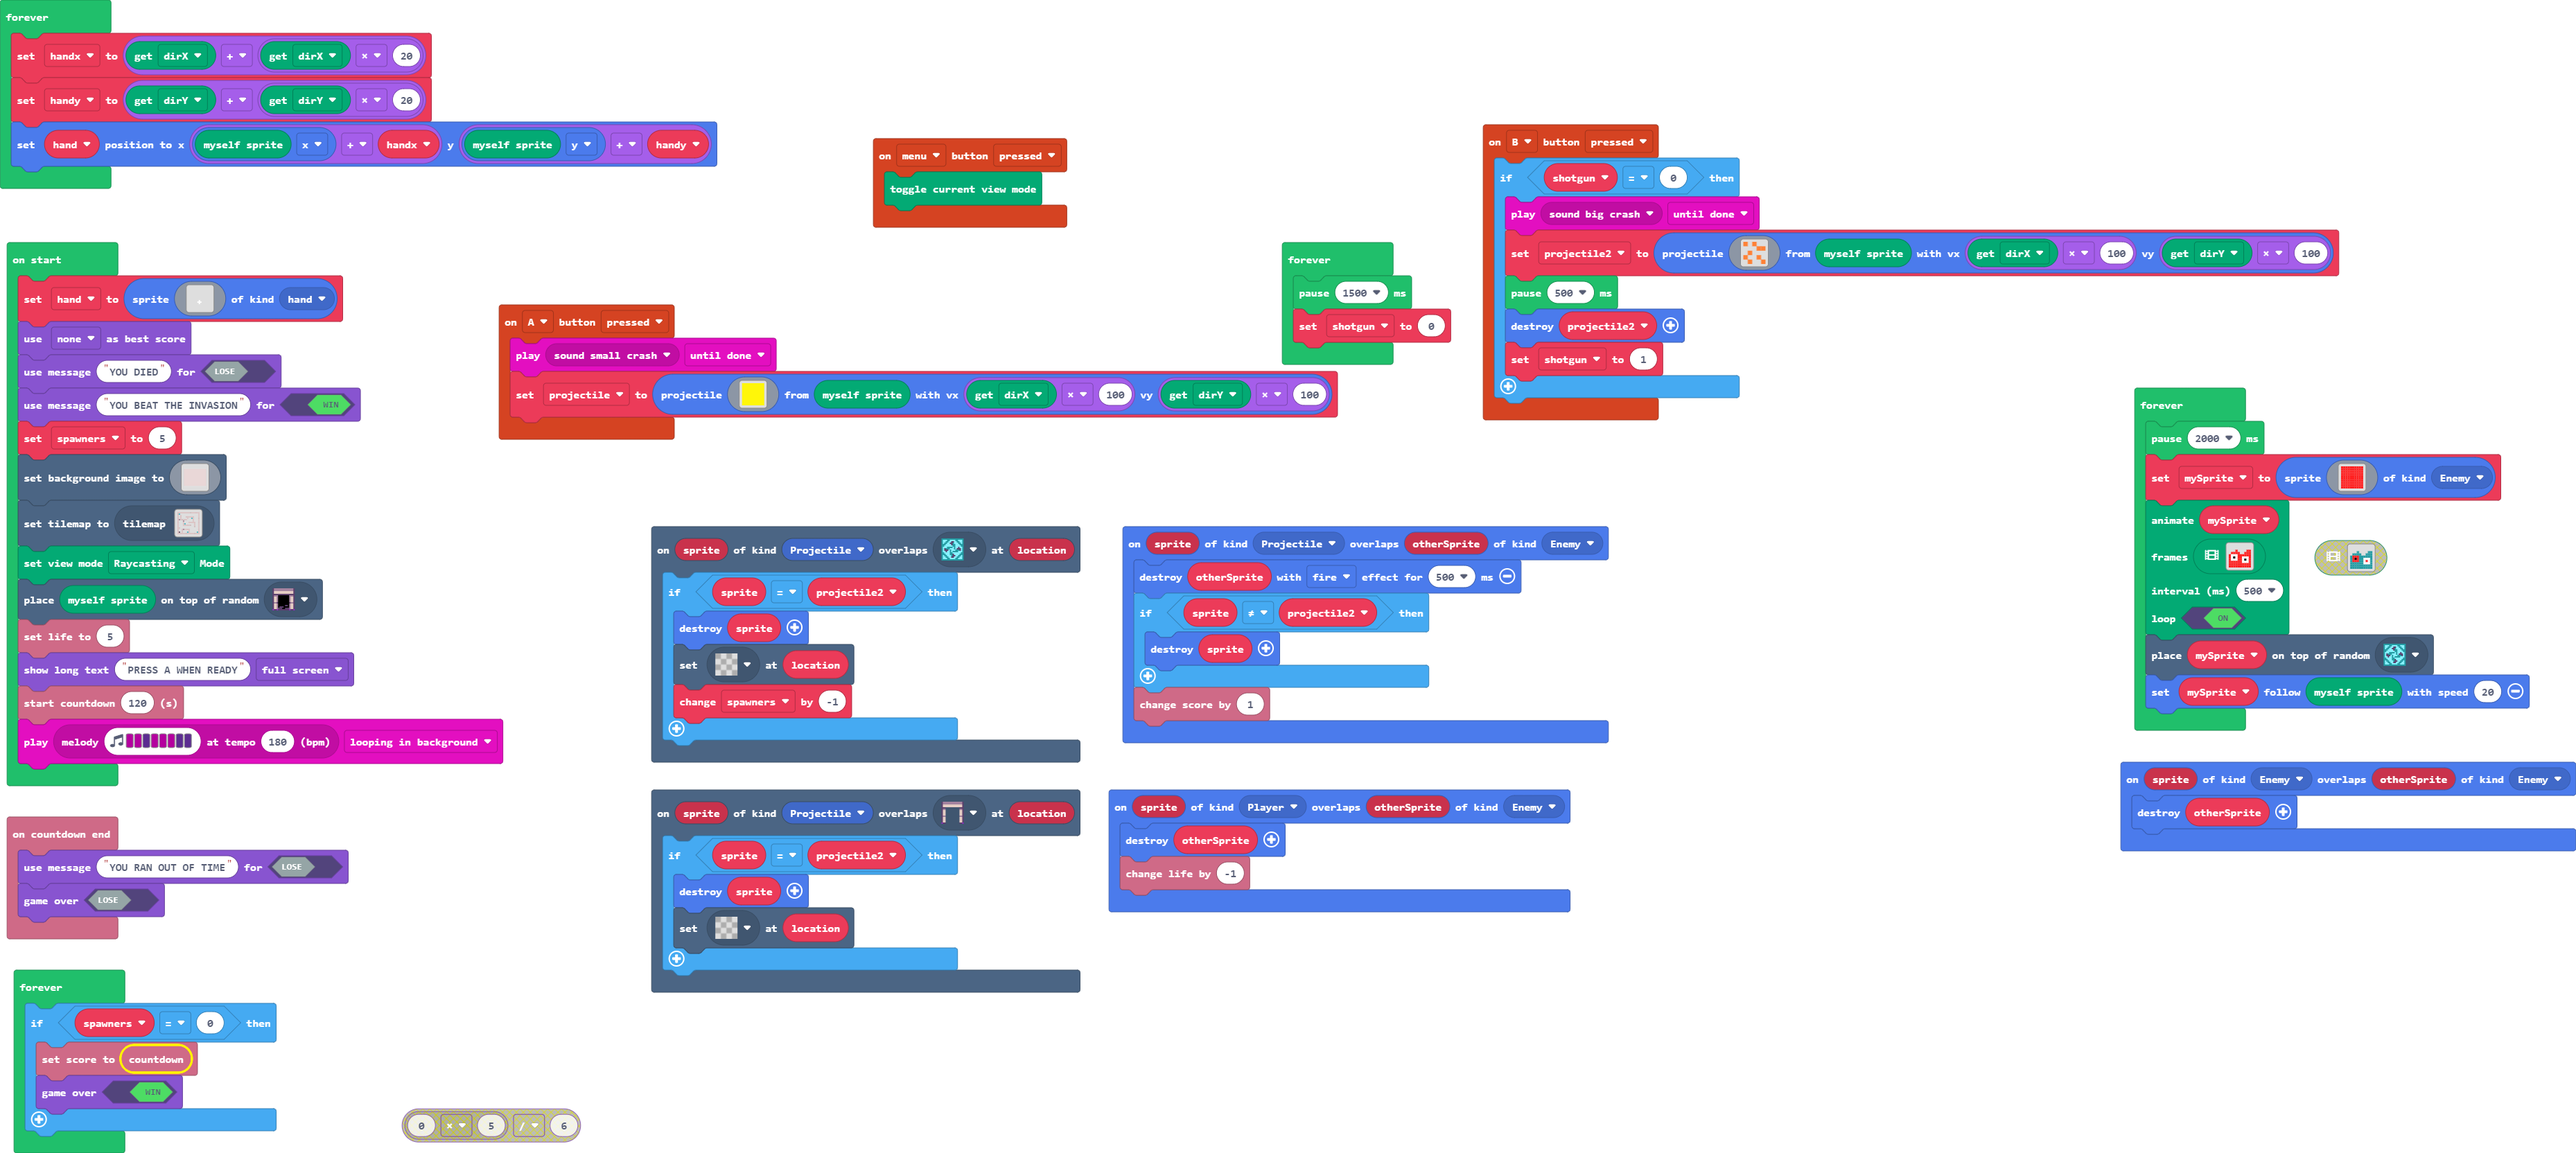
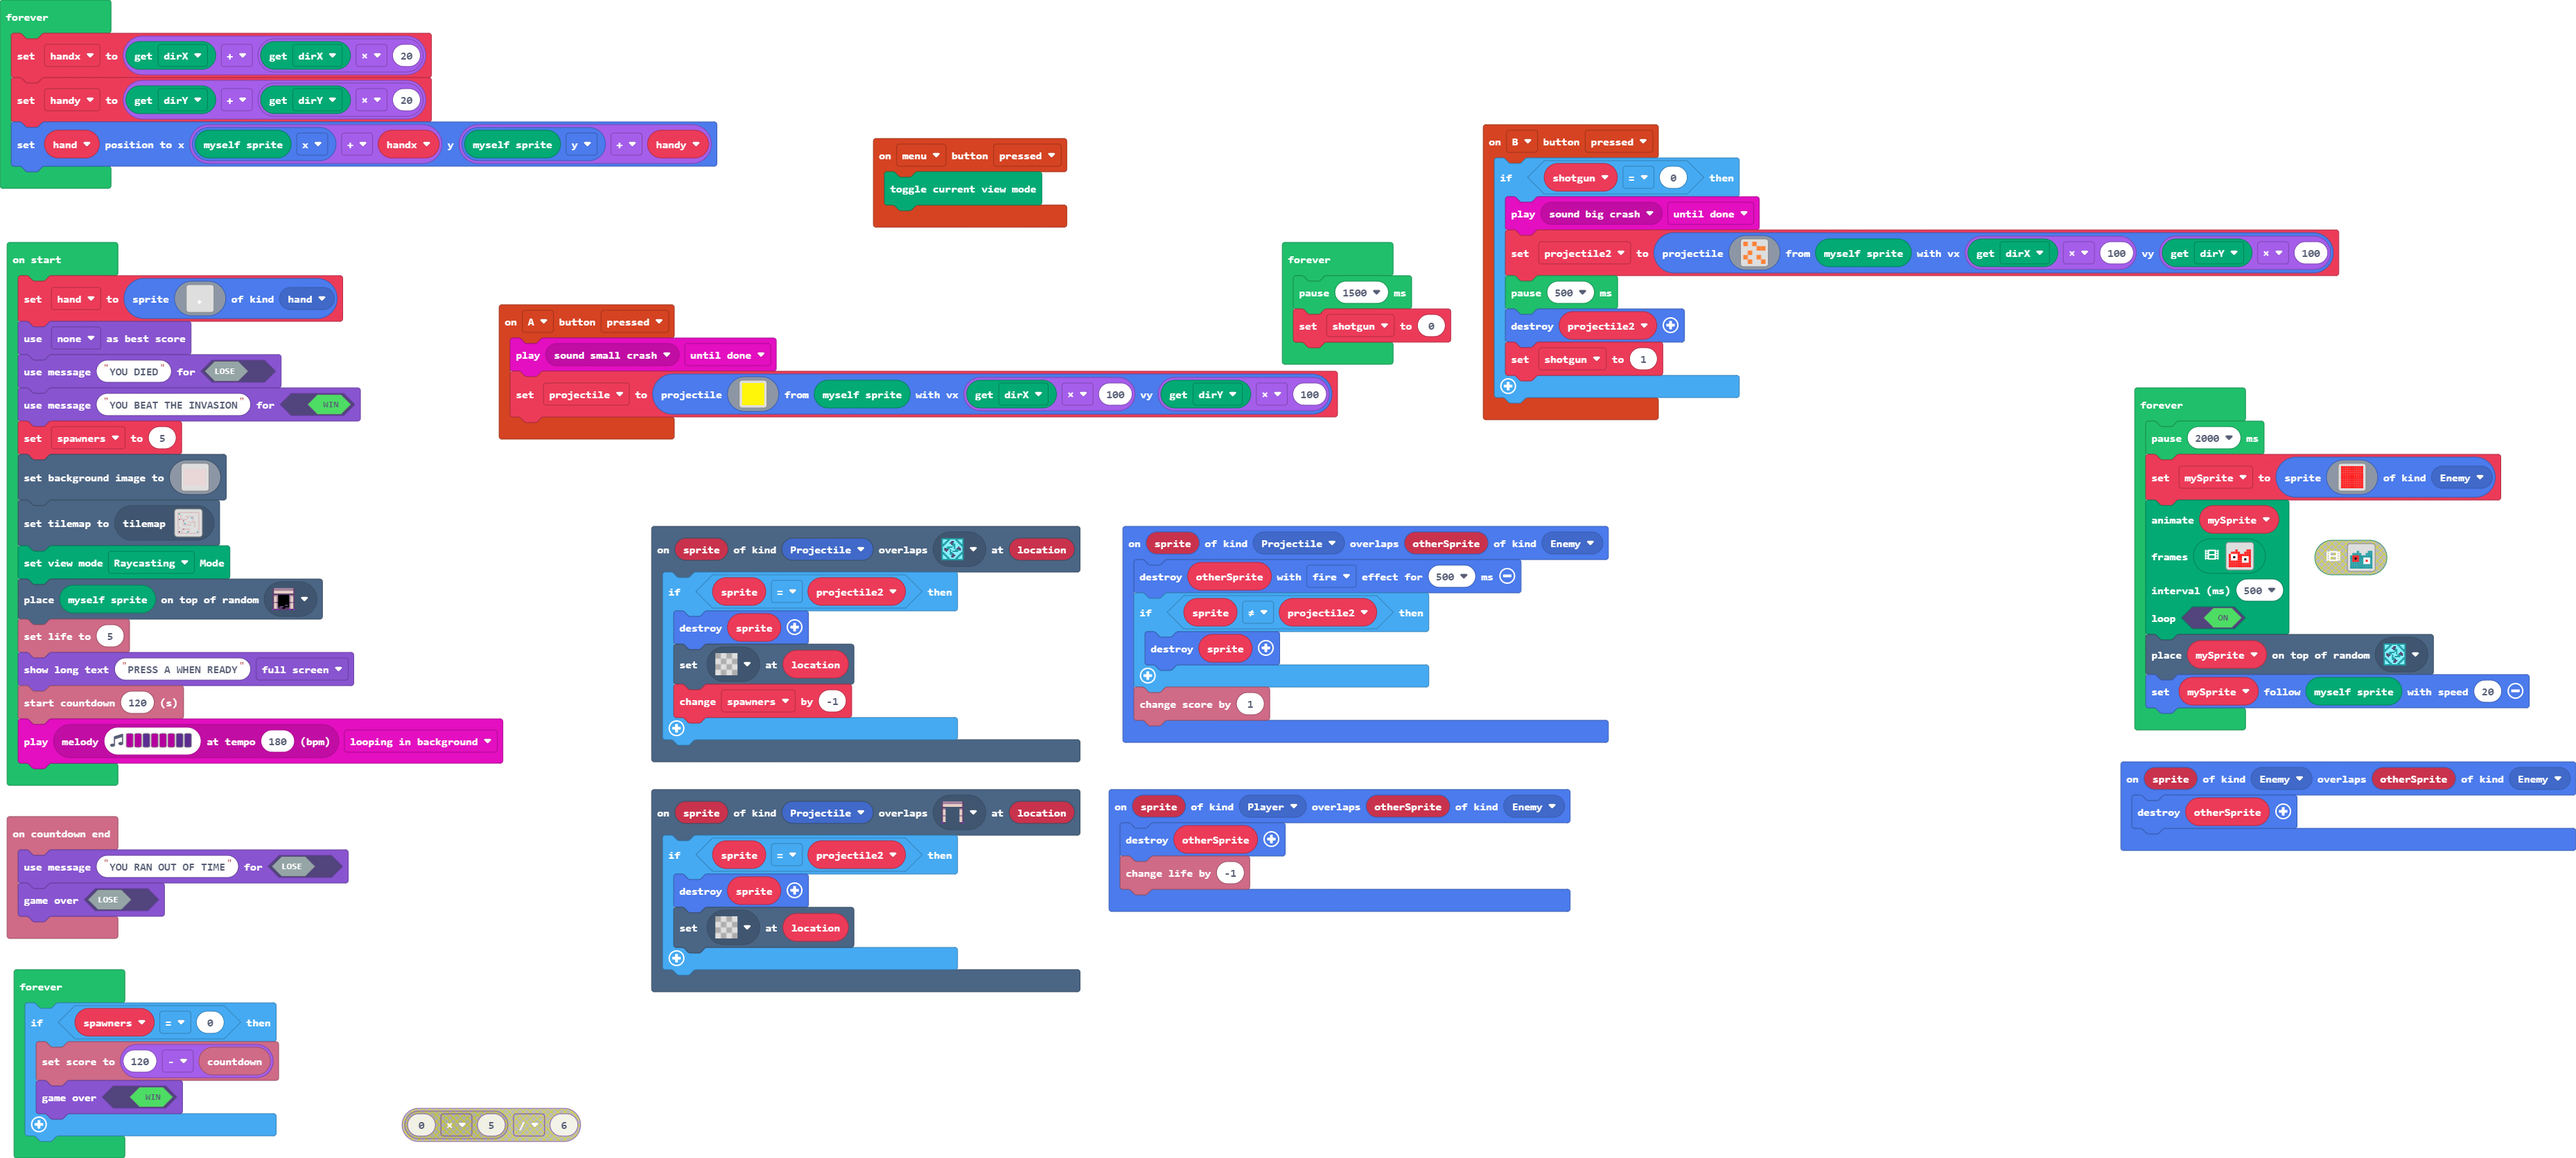
Update main.blocks, main.ts

diff --git a/main.ts b/main.ts
@@ -255,7 +255,7 @@ forever(function () {
 })
 forever(function () {
     if (spawners == 0) {
-        info.setScore(info.countdown())
+        info.setScore(120 - info.countdown())
         game.gameOver(true)
     }
 })
